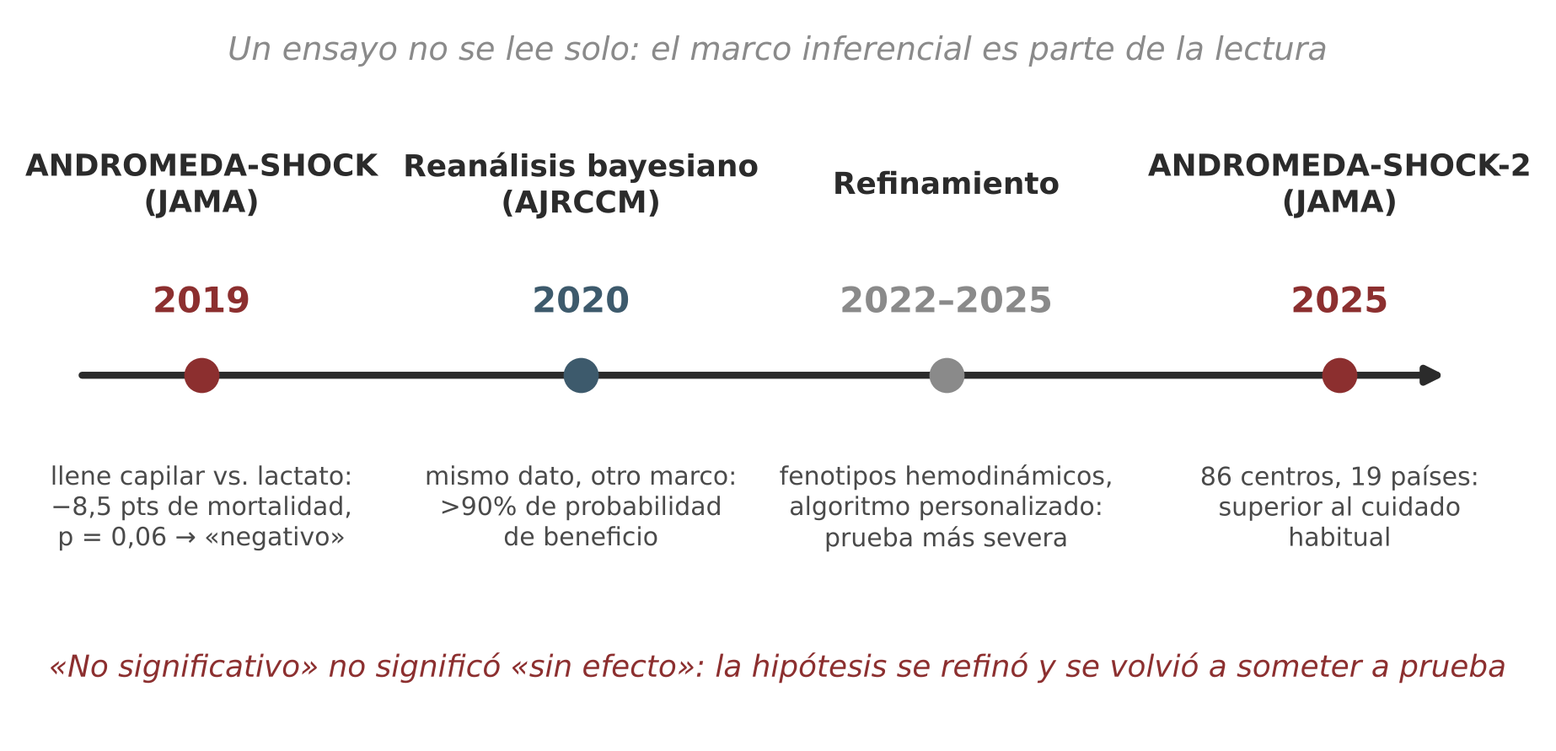
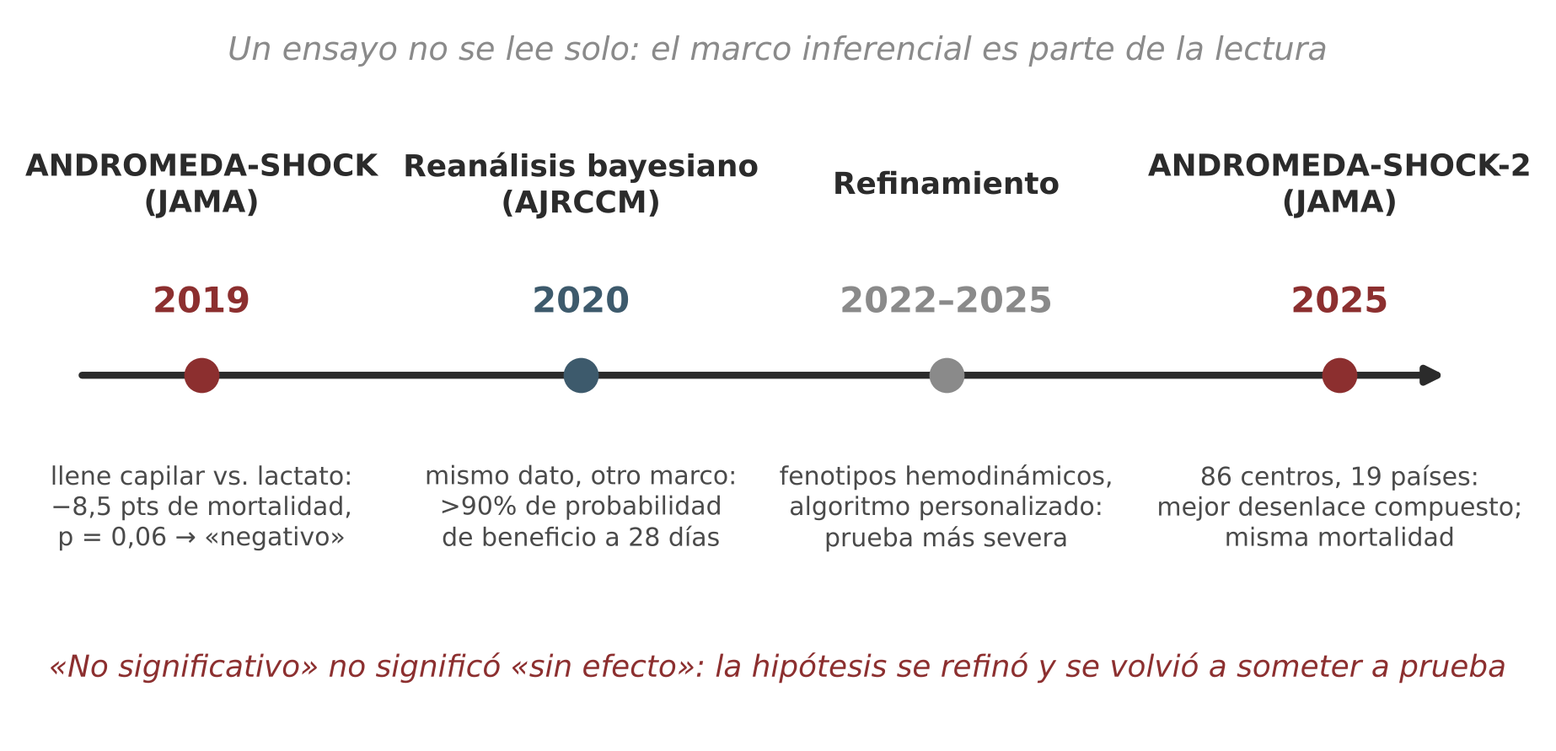
Auditoría externa y tres decisiones clínicas del autor
- Figura 9: ANDROMEDA-SHOCK-2 «mejor desenlace compuesto; misma
  mortalidad» (decía «superior al cuidado habitual»); Zampieri, «a 28
  días», en la figura y en el texto del cap. 9.
- Cap. 15: cada criterio de falsabilidad de HII-D dice cómo se mide
  (proposición como unidad, kappa con umbral fijado antes, lectura
  ciega por otro clínico, indicadores del Apéndice C a seis meses,
  minutos cronometrados).
- Cap. 17: el borrador de la capa H que redacta un escriba ambiental
  se verifica antes de firmar (la omisión fue el error dominante);
  la leyenda de la Figura 15 avisa que la captura cognitiva se
  describe después.
- «Dímero D» en todo el libro.
- Viñeta 6: la frase medular ordena la secuencia (probabilidad no alta
  y PERC no cumplido: dímero D; angioTAC si es elevado, o directo si
  la probabilidad es alta).
- Viñeta 5: se evalúa la capacidad de decidir en un período de lucidez
  y la cuarta línea se discute en la reunión, no en el pasillo.
- Taller del cap. 2: 84 % con oxígeno a 2 L/min (89 % está en el rango
  objetivo de un EPOC).
- Auditoría de evidencia, ítems 65 y 66.

Claude-Session: https://claude.ai/code/session_01SPkhDdVzUCxJwqq61ddeLW

Changed region(s): [[0.7411, 0.6667, 0.9881, 0.7273], [0.2779, 0.6667, 0.4632, 0.7273]]

diff --git a/fuentes/figuras.py b/fuentes/figuras.py
@@ -251,9 +251,9 @@ ax.annotate("", xy=(10.1, 2.5), xytext=(0.3, 2.5),
             arrowprops=dict(arrowstyle="-|>", color=INK, lw=2.0))
 hitos = [
     (1.2, "2019", "ANDROMEDA-SHOCK\n(JAMA)", "llene capilar vs. lactato:\n−8,5 pts de mortalidad,\np = 0,06 → «negativo»", ACENTO),
-    (3.9, "2020", "Reanálisis bayesiano\n(AJRCCM)", "mismo dato, otro marco:\n>90% de probabilidad\nde beneficio", ACENTO2),
+    (3.9, "2020", "Reanálisis bayesiano\n(AJRCCM)", "mismo dato, otro marco:\n>90% de probabilidad\nde beneficio a 28 días", ACENTO2),
     (6.5, "2022–2025", "Refinamiento", "fenotipos hemodinámicos,\nalgoritmo personalizado:\nprueba más severa", GRIS),
-    (9.3, "2025", "ANDROMEDA-SHOCK-2\n(JAMA)", "86 centros, 19 países:\nsuperior al cuidado\nhabitual", ACENTO),
+    (9.3, "2025", "ANDROMEDA-SHOCK-2\n(JAMA)", "86 centros, 19 países:\nmejor desenlace compuesto;\nmisma mortalidad", ACENTO),
 ]
 for x, anio, titulo, detalle, color in hitos:
     ax.plot([x], [2.5], marker="o", ms=9, color=color, zorder=3)

diff --git a/fuentes/04_parte4.md b/fuentes/04_parte4.md
@@ -163,13 +163,13 @@ La calibración requiere comparar predicciones con resultados. Cuando sea posibl
 
 Un libro que exige compromisos observables a cada hipótesis clínica debe formular los suyos. Estos son los míos.
 
-Primero: si clínicos entrenados no logran un acuerdo razonable al clasificar las frases de una nota en hechos, inferencias e incertidumbre, la distinción central del método es subjetiva en la práctica, y HII-D debe reformularse o abandonarse. La trazabilidad que promete depende de que las capas sean reconocibles entre lectores, no sólo para quien escribe.
+Primero: si clínicos entrenados no logran un acuerdo razonable al clasificar las frases de una nota en hechos, inferencias e incertidumbre, la distinción central del método es subjetiva en la práctica, y HII-D debe reformularse o abandonarse. Medirlo no exige más que notas reales y dos o tres lectores: la unidad es la proposición (cada cláusula que afirma algo), cada lector la asigna por separado a una capa, y el acuerdo se mide con un índice corregido por azar, como kappa, contra un umbral fijado antes de mirar los datos; un kappa bajo 0,6 bastaría para reabrir el método. La trazabilidad que promete depende de que las capas sean reconocibles entre lectores, no sólo para quien escribe.
 
-Segundo: si las notas escritas con esta disciplina no difieren de las convencionales en instrumentos estándar de calidad de registro, ni en la capacidad de otro clínico para reconstruir el razonamiento a partir de ellas, el método es cosmética con nombre propio.
+Segundo: si las notas escritas con esta disciplina no difieren de las convencionales en instrumentos estándar de calidad de registro, ni en la capacidad de otro clínico para reconstruir el razonamiento a partir de ellas, el método es cosmética con nombre propio. La segunda prueba es la que importa: un clínico que no conoce al paciente lee la nota y escribe qué se sabe, qué se cree y con cuánta fuerza, y qué haría cambiar el plan; un evaluador que no sabe con qué formato se escribió compara esas respuestas con las del autor.
 
-Tercero: si un servicio que adopta el léxico de certeza no modifica en algunos meses ninguna conducta medible —ningún «se descarta» reconvertido, ningún criterio de reapertura agregado, ninguna vigilancia activada que antes no existía—, el léxico es un póster, no una herramienta.
+Tercero: si un servicio que adopta el léxico de certeza no mueve en seis meses ninguno de los tres indicadores del Apéndice C, medidos en una muestra mensual de fichas antes y después de adoptarlo —ningún «se descarta» reconvertido, ningún criterio de reapertura agregado, ninguna vigilancia activada que antes no existía—, el léxico es un póster, no una herramienta.
 
-Cuarto: si el tiempo que consume la versión completa supera de forma sostenida el beneficio detectable, la respuesta racional no es la fe sino la poda: quedarse con la versión de sesenta segundos, o con nada.
+Cuarto: si los minutos que la versión completa agrega a cada nota, cronometrados, no se pagan con cambios en las tres pruebas anteriores, la respuesta racional no es la fe sino la poda: quedarse con la versión de sesenta segundos, o con nada.
 
 Formular estas condiciones no es un gesto retórico de modestia. Es la diferencia entre proponer una hipótesis y fundar una escuela. Prefiero lo primero: que el método quede expuesto a la misma reevaluación que le exige a cada diagnóstico, y que el mundo conserve, también aquí, la capacidad de corregirnos.
 
@@ -264,13 +264,13 @@ Hombre de 78 años con adenocarcinoma de páncreas metastásico en progresión t
 
 *Inferencia:* la neumonía es tratable en lo inmediato. La pendiente funcional previa indica, en cambio, una trayectoria irreversible de final de vida, con una sobrevida estimable en semanas a pocos meses. En ese escenario, «podría haber ventana para otra línea» no es una expectativa fundada en la evolución real, sino la mención abstracta de un fármaco disponible.
 
-*Incertidumbre:* el plazo exacto es incognoscible (incertidumbre aleatoria irreductible); lo honesto es comunicar la dirección de la pendiente y los escenarios probables. Pero la incertidumbre que domina el caso no es pronóstica sino de metas: ¿cómo quiere vivir este hombre el tiempo que le queda y qué cargas terapéuticas está dispuesto a tolerar?
+*Incertidumbre:* el plazo exacto es incognoscible (incertidumbre aleatoria irreductible); lo honesto es comunicar la dirección de la pendiente y los escenarios probables. Pero la incertidumbre que domina el caso no es pronóstica sino de metas: ¿cómo quiere vivir este hombre el tiempo que le queda, qué cargas terapéuticas está dispuesto a tolerar y está en condiciones de decidirlo él mismo?
 
-*Decisión:* antibióticos endovenosos y oxigenoterapia no invasiva con un objetivo explícito de alivio sintomático y eventual retorno a su casa (medidas reversibles y proporcionadas). Suspender la discusión sobre nuevas quimioterapias. Reunión familiar estructurada para alinear el plan con la voluntad del paciente. Reevaluación a las 72 horas según respuesta funcional y confort.
+*Decisión:* antibióticos endovenosos y oxigenoterapia no invasiva con un objetivo explícito de alivio sintomático y eventual retorno a su casa (medidas reversibles y proporcionadas). Evaluar su capacidad de decidir en un período de lucidez —si comprende su situación y las opciones, si aprecia que se aplican a él, si razona sobre ellas y si puede expresar una elección— y, si la tiene, preguntarle a él antes que a la familia. La cuarta línea no se cierra en el pasillo ni en la interconsulta: se discute en una reunión familiar estructurada cuyo objeto es conocer y respetar la voluntad del paciente. Reevaluación a las 72 horas según respuesta funcional y confort.
 
-*Frase medular:* «Neumonía aguda potencialmente reversible en paciente con cáncer de páncreas metastásico refractario y declive funcional acelerado hacia el final de la vida. Se trata la parte reversible con metas de alivio, se comunica la trayectoria sin fingir exactitud de plazos y las medidas invasivas se subordinan a las preferencias del enfermo.»
+*Frase medular:* «Neumonía aguda potencialmente reversible en paciente con cáncer de páncreas metastásico refractario y declive funcional acelerado hacia el final de la vida. Se trata la parte reversible con metas de alivio, se comunica la trayectoria sin fingir exactitud de plazos, se evalúa su capacidad de decidir en la próxima ventana de lucidez y las medidas invasivas se subordinan a sus preferencias.»
 
-*Lectura metacognitiva.* La pregunta «¿cuánto tiempo le queda?» tienta a dos respuestas simétricas y malas: una cifra inventada (certeza retórica) o un «eso sólo Dios lo sabe» que desorienta a la familia (abandono comunicacional). Y el caso expone la confusión cotidiana entre lo técnicamente factible —una cuarta línea, intubar— y lo clínicamente proporcionado: el juicio de proporcionalidad del capítulo 10 empieza por reconocer el declive basal como un hecho clínico duro.
+*Lectura metacognitiva.* La pregunta «¿cuánto tiempo le queda?» tienta a dos respuestas simétricas y malas: una cifra inventada (certeza retórica) o un «eso sólo Dios lo sabe» que desorienta a la familia (abandono comunicacional). Y el caso expone la confusión cotidiana entre lo técnicamente factible —una cuarta línea, intubar— y lo clínicamente proporcionado: el juicio de proporcionalidad del capítulo 10 empieza por reconocer el declive basal como un hecho clínico duro. Un paciente lúcido a ratos tampoco es un paciente sin voz: la capacidad se evalúa para cada decisión y en el momento en que se toma, y no se presume perdida porque fluctúe.
 
 ### Viñeta 6. Anatomía de un error consumado
 
@@ -284,15 +284,15 @@ Esta viñeta reconstruye un error completo con la disciplina de los capítulos 7
 
 **Inferencia de la primera noche:** «crisis de pánico» fue redactada como un hecho consumado, cuando su fuerza epistémica real era apenas la de una hipótesis posible, sustentada únicamente en el antecedente psiquiátrico y la similitud superficial del relato.
 
-**Incertidumbre nunca formulada:** ¿qué proceso fisiopatológico explica que una mujer de 29 años mantenga una frecuencia cardiaca de 112 lpm estando ya sedada y sin angustia, junto con una saturación de 94% que contradice una hiperventilación psicógena? Para este escenario exacto se diseñaron y validaron los criterios PERC (Pulmonary Embolism Rule-out Criteria): ocho variables que permiten excluir razonablemente un TEP sin dímero-D, sólo cuando un paciente de baja sospecha no cumple ninguna (Kline et al., 2004). Esta paciente incumplía tres: frecuencia cardiaca ≥100 lpm, saturación <95% y uso de estrógenos. La regla no falló esa noche; nunca fue convocada, porque el cierre prematuro impidió sospechar que había algo que descartar.
+**Incertidumbre nunca formulada:** ¿qué proceso fisiopatológico explica que una mujer de 29 años mantenga una frecuencia cardiaca de 112 lpm estando ya sedada y sin angustia, junto con una saturación de 94% que contradice una hiperventilación psicógena? Para este escenario exacto se diseñaron y validaron los criterios PERC (Pulmonary Embolism Rule-out Criteria): ocho variables que permiten excluir razonablemente un TEP sin dímero D, sólo cuando un paciente de baja sospecha no cumple ninguna (Kline et al., 2004). Esta paciente incumplía tres: frecuencia cardiaca ≥100 lpm, saturación <95% y uso de estrógenos. La regla no falló esa noche; nunca fue convocada, porque el cierre prematuro impidió sospechar que había algo que descartar.
 
 **Decisión de la primera noche:** la benzodiacepina era defendible como tratamiento sintomático inicial. El alta sin estudio adicional y sin una línea de signos de alarma —qué debía hacerla volver antes del «control en salud mental»— fue un cierre indefendible.
 
-*Dónde estuvo el punto de intercepción.* En la lectura de los signos vitales previos al egreso. Una taquicardia persistente de 112 lpm en una paciente que ya no luce angustiada era la gran discordancia de la madrugada. Si la hipótesis del pánico hubiese sido verdadera, el control de la ansiedad debía normalizar la descarga simpática y bajar el pulso. La pregunta de desaceleración antes de firmar el alta —«¿qué dato objetivo de esta paciente no explica una crisis de pánico?»— tenía en ese minuto su máximo rendimiento y su mínimo costo. Habrían bastado dos preguntas de anamnesis dirigida, la regla PERC al lado de la camilla y un dímero-D. Treinta y seis horas más tarde, la pregunta no formulada la respondió el síncope.
+*Dónde estuvo el punto de intercepción.* En la lectura de los signos vitales previos al egreso. Una taquicardia persistente de 112 lpm en una paciente que ya no luce angustiada era la gran discordancia de la madrugada. Si la hipótesis del pánico hubiese sido verdadera, el control de la ansiedad debía normalizar la descarga simpática y bajar el pulso. La pregunta de desaceleración antes de firmar el alta —«¿qué dato objetivo de esta paciente no explica una crisis de pánico?»— tenía en ese minuto su máximo rendimiento y su mínimo costo. Habrían bastado dos preguntas de anamnesis dirigida, la regla PERC al lado de la camilla y un dímero D. Treinta y seis horas más tarde, la pregunta no formulada la respondió el síncope.
 
 *Lo que no debe concluirse.* El desenlace no demuestra que toda disnea en una paciente con trastorno de pánico sea una embolia, ni que el médico fuera incompetente: con la información de la primera noche, la crisis de pánico era la explicación más frecuente. Lo indefendible era la arquitectura: una etiqueta de triage convertida en diagnóstico antes del examen, un dato medido —la taquicardia persistente— registrado sin que nadie le pidiera explicación, dos preguntas de anamnesis que la etiqueta volvió innecesarias y un alta sin criterio de reapertura. El mismo proceso con desenlace benigno —una crisis de pánico real— habría dejado la misma vulnerabilidad instalada para la siguiente paciente a la que se le cree menos por su diagnóstico.
 
-*Frase medular (la que faltó la primera noche):* «Disnea súbita y taquicardia persistente (112 tras ansiolisis) en mujer de 29 años con trastorno de pánico y anticonceptivos orales: crisis de pánico posible, pero la taquicardia y la saturación de 94% no están explicadas. PERC no cumplido (frecuencia cardiaca, saturación, estrógenos): no procede el alta sin estudiar embolia pulmonar. Dímero-D ahora; angioTAC si resulta elevado o la probabilidad clínica es intermedia. Reconsulta inmediata, por escrito, ante síncope, dolor torácico o disnea en reposo.»
+*Frase medular (la que faltó la primera noche):* «Disnea súbita y taquicardia persistente (112 tras ansiolisis) en mujer de 29 años con trastorno de pánico y anticonceptivos orales: crisis de pánico posible, pero la taquicardia y la saturación de 94% no están explicadas. Probabilidad clínica no alta y PERC no cumplido (frecuencia cardiaca, saturación, estrógenos): no procede el alta sin estudiar embolia pulmonar. Dímero D ahora y angioTAC si resulta elevado; si la probabilidad clínica fuera alta, angioTAC directo, sin dímero D. Reconsulta inmediata, por escrito, ante síncope, dolor torácico o disnea en reposo.»
 
 *Lectura metacognitiva.* La frase que faltó no requería más conocimiento del que cualquier médico de urgencias ya tiene: requería que el antecedente psiquiátrico no descontara el valor de dos signos medidos. Esta viñeta es el capítulo 14 en su forma más silenciosa: la injusticia testimonial no le dijo a la paciente que no le creía; simplemente dejó de preguntar. Y es también el capítulo 10: la regla PERC es un umbral explícito, y los umbrales explícitos sólo protegen a quien recuerda que hay una hipótesis que someterles. La disciplina de escritura habría bastado: separar el hecho (taquicardia persistente no explicada) de la etiqueta (pánico), conservar la incertidumbre y programar la reapertura.
 
@@ -424,7 +424,7 @@ Los riesgos de la IA clínica ya no son especulación: tienen literatura propia,
 
 La columna vertebral del catálogo es una sola observación: la IA no introdujo errores nuevos en la medicina. Automatizó los que ya teníamos y les quitó los frenos naturales — la lentitud, la duda, el cansancio que a veces obligaba a pedir ayuda. La Figura 15 pone cada riesgo junto al sesgo que amplifica.
 
-[FIGURA: fig15_parentescos_ia.png | Figura 15. Parentescos: cada riesgo de la IA clínica junto al sesgo ya descrito y el capítulo donde vive. Ningún riesgo es nuevo; la novedad es el amplificador.]
+[FIGURA: fig15_parentescos_ia.png | Figura 15. Parentescos: cada riesgo de la IA clínica junto al sesgo ya descrito y el capítulo donde vive; la captura cognitiva se describe en el apartado siguiente. Ningún riesgo es nuevo; la novedad es el amplificador.]
 
 ### El riesgo de fondo: la formación del razonador
 
@@ -440,7 +440,7 @@ La aviación conoce esta trampa con nombre propio: la paradoja de la automatizac
 
 Hay una aplicación que ya está en las consultas y que toca el nervio de este libro: los escribas ambientales. Un micrófono escucha la conversación y un modelo redacta la nota. La adopción fue rápida: en un sistema integrado de Estados Unidos, cerca de 3.400 médicos usaron la herramienta en unas 300.000 consultas durante las diez semanas posteriores a su despliegue, con menos tiempo de documentación y mayor satisfacción (Tierney et al., 2024). El atractivo es real: devuelve al médico la mirada que la pantalla le robaba. Pero una conversación clínica no viene con capas. El médico dice «esto parece una neumonía, pero no me cierra la saturación», y la nota generada a partir de esa frase puede decir «neumonía». La duda dicha en voz alta se vuelve afirmación impresa; la modalidad epistémica —el «parece», el «no me cierra»— es lo que un resumen tiende a aplanar. Los primeros estudios con encuentros simulados sugieren que el problema no es sólo teórico. Al poner a prueba dos productos comerciales sobre once consultas guionadas, 31 de las 44 notas generadas contenían al menos un error, con una media de casi tres por nota. El tipo dominante fue la omisión, lo dicho en la consulta y ausente en la nota: 83% de los errores de un producto y 54% de los del otro, seguida de contenido agregado o incorrecto (Biro et al., 2025).
 
-De ahí una regla de diseño, dicha en el vocabulario de las capas. Un escriba ambiental (ambient scribe) puede automatizar la capa H —qué se dijo, qué se midió, con hora y fuente— y hacerlo mejor que un humano cansado. No debería autocompletar la capa D ni la frase medular: la decisión, el criterio de reapertura y el grado de la inferencia tienen que salir de la mano del clínico, porque escribirlos es la instancia en que se piensan (McCoy et al., 2024). Donde la herramienta llene las cuatro capas, el never-skilling del apartado anterior tiene su vía de entrada más cómoda: notas impecables firmadas por médicos que ya no las construyen. La prueba de un buen escriba no es que la nota se lea bien; es que conserve el «no me cierra».
+De ahí una regla de diseño, dicha en el vocabulario de las capas. Un escriba ambiental (ambient scribe) puede redactar el borrador de la capa H —qué se dijo, qué se midió, con hora y fuente—, a veces mejor que un humano cansado; pero ese borrador se verifica antes de firmar, porque el error dominante en las notas generadas fue la omisión, y lo omitido no se ve leyendo lo escrito: se ve contrastándolo con lo que pasó en la consulta. No debería autocompletar la capa D ni la frase medular: la decisión, el criterio de reapertura y el grado de la inferencia tienen que salir de la mano del clínico, porque escribirlos es la instancia en que se piensan (McCoy et al., 2024). Donde la herramienta llene las cuatro capas, el never-skilling del apartado anterior tiene su vía de entrada más cómoda: notas impecables firmadas por médicos que ya no las construyen. La prueba de un buen escriba no es que la nota se lea bien; es que conserve el «no me cierra».
 
 ### Cómo enfrentarlos: las defensas del clínico
 

diff --git a/fuentes/05_cierre.md b/fuentes/05_cierre.md
@@ -100,7 +100,7 @@ Una o dos frases que expresen la naturaleza del evento, la inferencia con su gra
 | **No demostrado** | Hipótesis razonable sin evidencia suficiente para afirmarla | «Estrangulación no demostrada en imagen ni cirugía» | Confundirlo con «descartado» (ausencia de prueba ≠ prueba de ausencia) |
 | **Sin evidencia actual de** | El método empleado no mostró el fenómeno en ese momento | «Sin evidencia actual de isquemia en TAC» | «Sin evidencia de isquemia» citado días después como «isquemia descartada» |
 | **No evaluable** | Las condiciones no permiten determinar presencia o ausencia | «Síntomas urinarios no evaluables por lesión medular» | Registrar «niega disuria» en paciente que no puede percibirla |
-| **Menos probable** | Existe evidencia contraria o una explicación superior, sin exclusión | «TEP menos probable tras Doppler y dímero; no excluido» | Omitir qué evidencia lo degradó (queda como opinión) |
+| **Menos probable** | Existe evidencia contraria o una explicación superior, sin exclusión | «TEP menos probable tras Doppler y dímero D; no excluido» | Omitir qué evidencia lo degradó (queda como opinión) |
 | **Se descarta** | El método y el contexto realmente permiten excluir | «Se descarta embarazo (β-hCG negativa)» | «Se descarta abdomen agudo» tras un examen único en evolución temprana |
 | **Probabilidad suficientemente baja para no tratar/testear** | Decisión por umbral, no exclusión ontológica | «Probabilidad de SCA suficientemente baja para alta con control en 72 h» | Presentarla al paciente como «usted no tiene nada» |
 
@@ -190,9 +190,9 @@ La diferencia es operativa: «TAC descarta complicación» apaga las alarmas del
 
 #### Taller del capítulo 2. Cinco hipótesis en tres minutos
 
-Un paciente con EPOC conocido consulta por disnea que no ha respondido a dos rondas de broncodilatadores en urgencias. La saturación es 89%, la auscultación muestra escasas sibilancias. Con tres minutos y un papel: (a) generar al menos cinco hipótesis sin censurar ninguna, (b) escribir una reformulación del problema que no use la palabra «EPOC», (c) recién entonces podar con las cuatro preguntas de la prueba de resistencia.
+Un paciente con EPOC conocido consulta por disnea que no ha respondido a dos rondas de broncodilatadores en urgencias. La saturación es 84% con oxígeno a 2 L/min por naricera, y la auscultación muestra escasas sibilancias. Con tres minutos y un papel: (a) generar al menos cinco hipótesis sin censurar ninguna, (b) escribir una reformulación del problema que no use la palabra «EPOC», (c) recién entonces podar con las cuatro preguntas de la prueba de resistencia.
 
-*Una versión posible.* La lista generativa sin censura inicial incluye: tromboembolismo pulmonar (el EPOC y la inmovilidad aumentan el riesgo, y la escasez de sibilancias no explica una saturación de 89%), neumotórax secundario a ruptura de bula, edema pulmonar cardiogénico, neumonía basal oculta, síndrome coronario agudo con equivalente disneico, anemia severa o fatiga muscular respiratoria. La reformulación que replantea el problema (problem setting) es: «insuficiencia respiratoria hipoxémica aguda desproporcionada al broncoespasmo auscultado». Ese giro lingüístico desactiva el reflejo de indicar una tercera tanda de nebulizaciones y abre el espacio mental donde viven el TEP y el neumotórax. La secuencia importa: primero volumen divergente sin filtro —pues la autocensura temprana es el motor del cierre prematuro— y recién después poda severa contra los datos del caso. Tres minutos de generación libre cuestan mucho menos que veinticuatro horas de anclaje. La poda, con las cuatro preguntas de la prueba de resistencia: el dato más difícil de explicar con otra exacerbación de EPOC es una disnea que no cede con dos rondas de broncodilatadores y casi sin sibilancias, que es justo el hallazgo que la exacerbación haría esperar y no está. El tromboembolismo pulmonar y el neumotórax explican ambos datos y cambiarían la conducta (anticoagular, drenar), así que encabezan la lista; la neumonía, el edema pulmonar, el síndrome coronario y la anemia quedan a una radiografía, un electrocardiograma con troponina y un hemograma de distancia. También queda escrito qué cambiaría la jerarquía: un neumotórax en la radiografía la resuelve; su ausencia deja arriba al tromboembolismo.
+*Una versión posible.* La lista generativa sin censura inicial incluye: tromboembolismo pulmonar (el EPOC y la inmovilidad aumentan el riesgo, y la escasez de sibilancias no explica una saturación de 84% con oxígeno), neumotórax secundario a ruptura de bula, edema pulmonar cardiogénico, neumonía basal oculta, síndrome coronario agudo con equivalente disneico, anemia severa o fatiga muscular respiratoria. La reformulación que replantea el problema (problem setting) es: «insuficiencia respiratoria hipoxémica aguda desproporcionada al broncoespasmo auscultado». Ese giro lingüístico desactiva el reflejo de indicar una tercera tanda de nebulizaciones y abre el espacio mental donde viven el TEP y el neumotórax. La secuencia importa: primero volumen divergente sin filtro —pues la autocensura temprana es el motor del cierre prematuro— y recién después poda severa contra los datos del caso. Tres minutos de generación libre cuestan mucho menos que veinticuatro horas de anclaje. La poda, con las cuatro preguntas de la prueba de resistencia: el dato más difícil de explicar con otra exacerbación de EPOC es una disnea que no cede con dos rondas de broncodilatadores y casi sin sibilancias, que es justo el hallazgo que la exacerbación haría esperar y no está. El tromboembolismo pulmonar y el neumotórax explican ambos datos y cambiarían la conducta (anticoagular, drenar), así que encabezan la lista; la neumonía, el edema pulmonar, el síndrome coronario y la anemia quedan a una radiografía, un electrocardiograma con troponina y un hemograma de distancia. También queda escrito qué cambiaría la jerarquía: un neumotórax en la radiografía la resuelve; su ausencia deja arriba al tromboembolismo.
 
 #### Taller del capítulo 3. El mapa de lo que no sabemos de Carmen
 
@@ -583,7 +583,7 @@ Los números remiten a capítulos (Int = introducción, Interludios I–III, CC 
 - Ensombrecimiento diagnóstico — CC (viñeta 8)
 - Errores asimétricos — 10, CC (viñeta 3)
 - Errores típicos en los talleres — Ap D
-- Escribas ambientales (regla «la capa H sí, la capa D no») — 17
+- Escribas ambientales (regla «la capa H, verificada; la capa D, no») — 17
 - Estado de verificación de un diagnóstico en la ficha electrónica — 12
 - Estado del razonador (esfuerzo, sueño, ánimo; turnos como condición epistémica) — 8, 16, Ap A
 - Ética de la creencia (Clifford); pensar bien como deber primordial — 14, C

diff --git a/fuentes/03_parte3.md b/fuentes/03_parte3.md
@@ -24,7 +24,7 @@ En términos HII, un resultado de investigación es un hecho acerca de una pobla
 
 ### Una década sobre un mismo dato: la saga ANDROMEDA
 
-Antes de traducir un resultado al caso hay que leerlo, y leerlo ya es una decisión. Pocas historias recientes lo muestran mejor. En 2019, un ensayo multicéntrico conducido desde una red latinoamericana de investigación en medicina intensiva comparó dos blancos para reanimar el shock séptico: normalizar el lactato o normalizar el llene capilar. El grupo guiado por la perfusión periférica tuvo una mortalidad absoluta 8,5 puntos menor; el valor p fue 0,06 y el ensayo quedó declarado «negativo» según la convención (Hernández et al., 2019). ¿Qué debía hacer un clínico con ese resultado? El umbral de significación que lo declaró negativo no es una ley de la naturaleza, sino el riesgo inductivo que el capítulo siguiente desarrolla, institucionalizado en un número. Un reanálisis bayesiano lo hizo explícito: bajo cualquier prior razonable, la probabilidad de que la estrategia guiada por perfusión fuera superior excedía el 90% (Zampieri et al., 2020). El mismo dato, dos marcos de lectura, dos frases distintas para la ficha.
+Antes de traducir un resultado al caso hay que leerlo, y leerlo ya es una decisión. Pocas historias recientes lo muestran mejor. En 2019, un ensayo multicéntrico conducido desde una red latinoamericana de investigación en medicina intensiva comparó dos blancos para reanimar el shock séptico: normalizar el lactato o normalizar el llene capilar. El grupo guiado por la perfusión periférica tuvo una mortalidad absoluta 8,5 puntos menor; el valor p fue 0,06 y el ensayo quedó declarado «negativo» según la convención (Hernández et al., 2019). ¿Qué debía hacer un clínico con ese resultado? El umbral de significación que lo declaró negativo no es una ley de la naturaleza, sino el riesgo inductivo que el capítulo siguiente desarrolla, institucionalizado en un número. Un reanálisis bayesiano lo hizo explícito: bajo cualquier prior razonable, la probabilidad de que la estrategia guiada por perfusión redujera la mortalidad a 28 días excedía el 90% (Zampieri et al., 2020). El mismo dato, dos marcos de lectura, dos frases distintas para la ficha.
 
 La respuesta madura del propio grupo no fue proclamar victoria ni acatar el veredicto: fue refinar la hipótesis —fenotipos hemodinámicos, un algoritmo personalizado— y volver a someterla a una prueba más severa. Seis años después, el segundo ensayo, ahora en 86 centros de 19 países, mostró que la estrategia personalizada guiada por llene capilar era superior al cuidado habitual en un desenlace jerárquico que combinaba mortalidad, días de soporte vital y estadía hospitalaria; la ventaja vino de menos días de soporte vital, con la misma mortalidad a 28 días (Hernández et al., 2025). La saga deja tres lecciones. Un ensayo no se lee solo, porque el marco inferencial es parte de la lectura. «No significativo» no significa «sin efecto», y tratarlos como sinónimos es una decisión con costos. Y la incertidumbre residual no se resuelve con retórica, sino con la siguiente pregunta bien diseñada. Hay una cuarta lección que excede la epistemología: esa ciencia de primera línea se hizo desde América Latina, coordinada desde Chile — el mismo continente clínico desde el que escribo.
 
@@ -77,7 +77,7 @@ Los umbrales sirven sólo si se sabe dónde queda la probabilidad después de un
 
 La estructura de umbrales tiene una fundamentación filosófica precisa que rara vez se nombra en medicina. Richard Rudner argumentó en 1953 que ningún científico acepta o rechaza una hipótesis por lógica pura. Como la evidencia nunca es concluyente, decidir que *ya es suficiente* exige ponderar qué tan grave sería equivocarse, y esa ponderación es un juicio de valor (Rudner, 1953, p. 2). Carl Hempel llamó a esto riesgo inductivo (inductive risk; Hempel, 1965). Heather Douglas mostró que ese riesgo no aparece sólo al final, cuando se acepta una conclusión, sino en las etapas internas de la investigación: qué método elegir, cómo caracterizar un dato ambiguo, cómo interpretarlo. En cada una, cuánta evidencia se exige antes de afirmar que un compuesto es tóxico depende de qué error —afirmar de más o afirmar de menos— produce más daño; su caso son las láminas de hígado de rata con que se fijó la toxicidad de la dioxina, leídas por patólogos distintos con resultados distintos (Douglas, 2000, pp. 565-577).
 
-La clínica es el caso extremo y más honesto de esta tesis. El umbral de Pauker y Kassirer es el riesgo inductivo vuelto aritmética: el punto donde «suficiente evidencia» queda definido por el costo de los dos errores posibles. Por eso «se descarta» nunca es una afirmación puramente epistémica. Descartar una embolia con dímero negativo en un paciente de baja probabilidad no significa que la probabilidad sea cero; significa que el residuo de duda ya no justifica el daño esperado de seguir estudiando. Quien entiende esto deja de buscar un umbral «objetivo» escondido en las guías y empieza a hacer la pregunta correcta: ¿qué error estamos más dispuestos a tolerar en este paciente, y quién decidió eso?
+La clínica es el caso extremo y más honesto de esta tesis. El umbral de Pauker y Kassirer es el riesgo inductivo vuelto aritmética: el punto donde «suficiente evidencia» queda definido por el costo de los dos errores posibles. Por eso «se descarta» nunca es una afirmación puramente epistémica. Descartar una embolia con dímero D negativo en un paciente de baja probabilidad no significa que la probabilidad sea cero; significa que el residuo de duda ya no justifica el daño esperado de seguir estudiando. Quien entiende esto deja de buscar un umbral «objetivo» escondido en las guías y empieza a hacer la pregunta correcta: ¿qué error estamos más dispuestos a tolerar en este paciente, y quién decidió eso?
 
 Esta fundamentación tiene una consecuencia liberadora. Reconocer que hay valores dentro del umbral no corrompe la objetividad clínica; la localiza. Los hechos y las probabilidades se estiman con toda la disciplina de la Parte I, aunque tampoco ahí falta el valor: cuánta evidencia se pide antes de dar algo por hecho depende de lo que cuesta equivocarse, y por eso la capa de hechos declara su fuente y su método. El punto de corte se delibera —con el paciente cuando es posible— y se declara. Lo indefendible no es que haya valores en la decisión: es esconderlos detrás de una retórica de pura evidencia.
 

diff --git a/fuentes/auditoria_evidencia.md b/fuentes/auditoria_evidencia.md
@@ -1,6 +1,6 @@
 # Auditoría de evidencia — registro (Fase E de la pauta de edición final)
 
-Fecha de auditoría: 9 de agosto de 2026; ítems 27-29 agregados el 14 de octubre de 2026 (edición P1-P9); ítems 30-55 agregados el 14 de octubre de 2026 (revisión de pasajes clínicos y caps. 17, 8, 14, 1, 13 y 12); ítems 56-57 agregados el 15 de octubre de 2026 (Prefacio reescrito a partir de la anotación del autor y definiciones del cap. 17); ítems 58-64 agregados el 16 de octubre de 2026 (correcciones de la evaluación del panel de expertos: el cotejo pasa de la cifra a la frase que se apoya en ella). Método: cada afirmación empírica del manuscrito se cotejó contra su fuente primaria (autoría, población, magnitud, dirección, año). Las referencias incorporadas durante las rondas 3.ª a 7.ª fueron verificadas contra fuente **antes** de entrar al texto (regla del proyecto); esta auditoría re-verificó además las cifras de mayor riesgo. Veredictos: **EXACTA** (la formulación del libro corresponde a la fuente), **AJUSTADA** (se corrigió la formulación), **REFORMULADA** (sin respaldo directo suficiente → convertida en formulación ilustrativa).
+Fecha de auditoría: 9 de agosto de 2026; ítems 27-29 agregados el 14 de octubre de 2026 (edición P1-P9); ítems 30-55 agregados el 14 de octubre de 2026 (revisión de pasajes clínicos y caps. 17, 8, 14, 1, 13 y 12); ítems 56-57 agregados el 15 de octubre de 2026 (Prefacio reescrito a partir de la anotación del autor y definiciones del cap. 17); ítems 58-64 agregados el 16 de octubre de 2026 (correcciones de la evaluación del panel de expertos: el cotejo pasa de la cifra a la frase que se apoya en ella); ítems 65-66 agregados el 17 de octubre de 2026 (auditoría externa). Método: cada afirmación empírica del manuscrito se cotejó contra su fuente primaria (autoría, población, magnitud, dirección, año). Las referencias incorporadas durante las rondas 3.ª a 7.ª fueron verificadas contra fuente **antes** de entrar al texto (regla del proyecto); esta auditoría re-verificó además las cifras de mayor riesgo. Veredictos: **EXACTA** (la formulación del libro corresponde a la fuente), **AJUSTADA** (se corrigió la formulación), **REFORMULADA** (sin respaldo directo suficiente → convertida en formulación ilustrativa).
 
 | # | Afirmación en el libro (cap.) | Fuente | Cotejo | Veredicto |
 |---|---|---|---|---|
@@ -68,6 +68,8 @@ Fecha de auditoría: 9 de agosto de 2026; ítems 27-29 agregados el 14 de octubr
 | 62 | Norman 2017: los errores nacen de ambos modos de pensar; el vínculo entre sesgos inducidos y errores reales no está establecido; enseñar a reconocer sesgos no reduce errores; reorganizar el conocimiento da beneficios pequeños y constantes (cap. 16) | Norman et al., Acad Med 2017;92(1):23–30 | Resumen (repositorio de McMaster) | CORREGIDA (antes: «La mayoría de los errores diagnósticos se asocia a déficits de conocimiento», que la revisión no afirma y que choca con Graber 2005) |
 | 63 | Goh 2024: médicos de medicina interna, familiar y de urgencias; el ensayo no midió cómo usaron el modelo (cap. 17) | Goh et al., JAMA Netw Open 2024;7(10):e2440969 | Población y diseño del resumen; el «oráculo de confirmación» queda declarado como inferencia | CORREGIDA (antes: «internistas» y una interpretación con verbo de hallazgo) |
 | 64 | Kadavath 2022 estudia probabilidades (P(True), P(IK)), no confianza verbalizada, y encuentra a los modelos grandes bien calibrados en el formato adecuado; la sobreconfianza verbalizada queda con Xiong 2024 (cap. 17) | Kadavath et al., arXiv:2207.05221 | Resumen en arXiv | CORREGIDA (antes: citado como respaldo de la sobreconfianza verbalizada) |
+| 65 | Figura 9: ANDROMEDA-SHOCK-2 «mejor desenlace compuesto; misma mortalidad» (antes, «superior al cuidado habitual», que el texto ya había corregido en el ítem 60) (cap. 9) | Hernández et al., JAMA 2025;334(22):1988–1999 | Mismo cotejo del ítem 60: win ratio 1,16 en el desenlace jerárquico; mortalidad a 28 días 26,5 % vs 26,6 % | CORREGIDA (auditoría externa del 17 de octubre) |
+| 66 | Zampieri 2020: la probabilidad >90 % es de reducir la mortalidad a 28 días, en el texto y en la Figura 9 (cap. 9) | Zampieri et al., AJRCCM 2020;201(4):423–429 | Mismo cotejo del ítem 2: >90 % a 28 días con los cuatro priors; a 90 días el prior pesimista no la alcanza | PRECISADA (la auditoría externa pedía quitar «bajo cualquier prior»; el resumen lo respalda a 28 días) |
 
 ## Generalizaciones docentes intervenidas (regla de transformación de la pauta, §A4)
 
